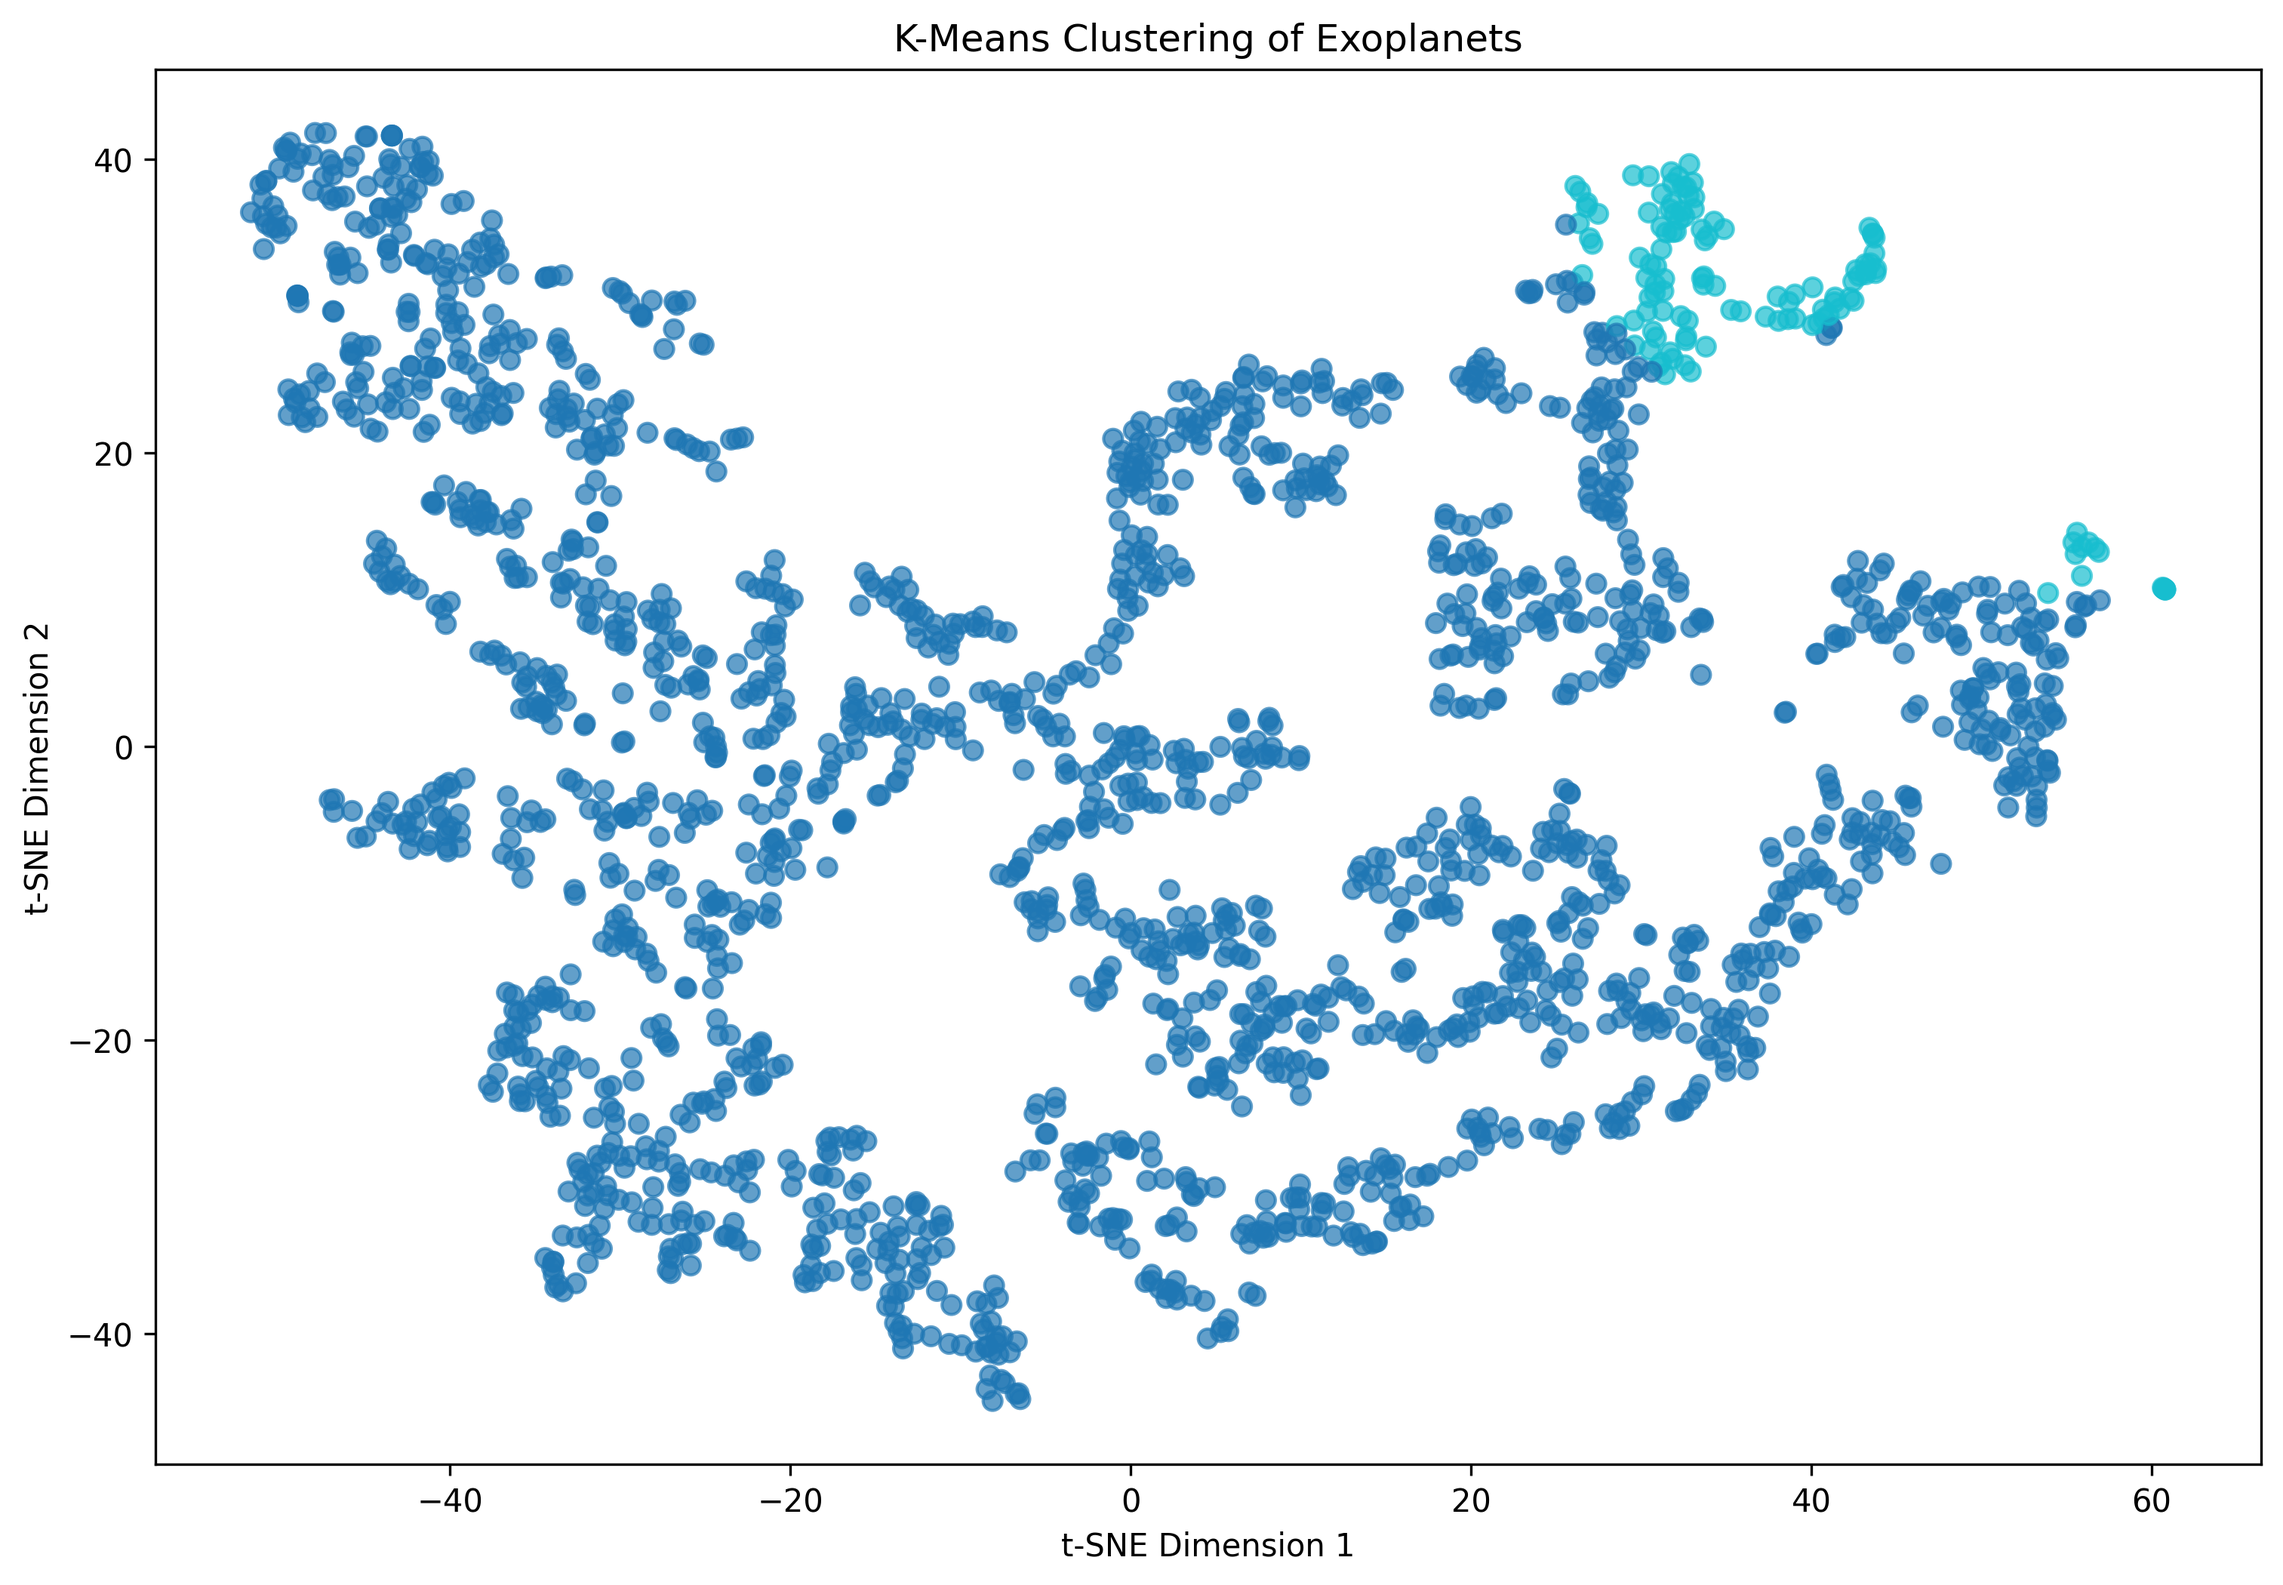
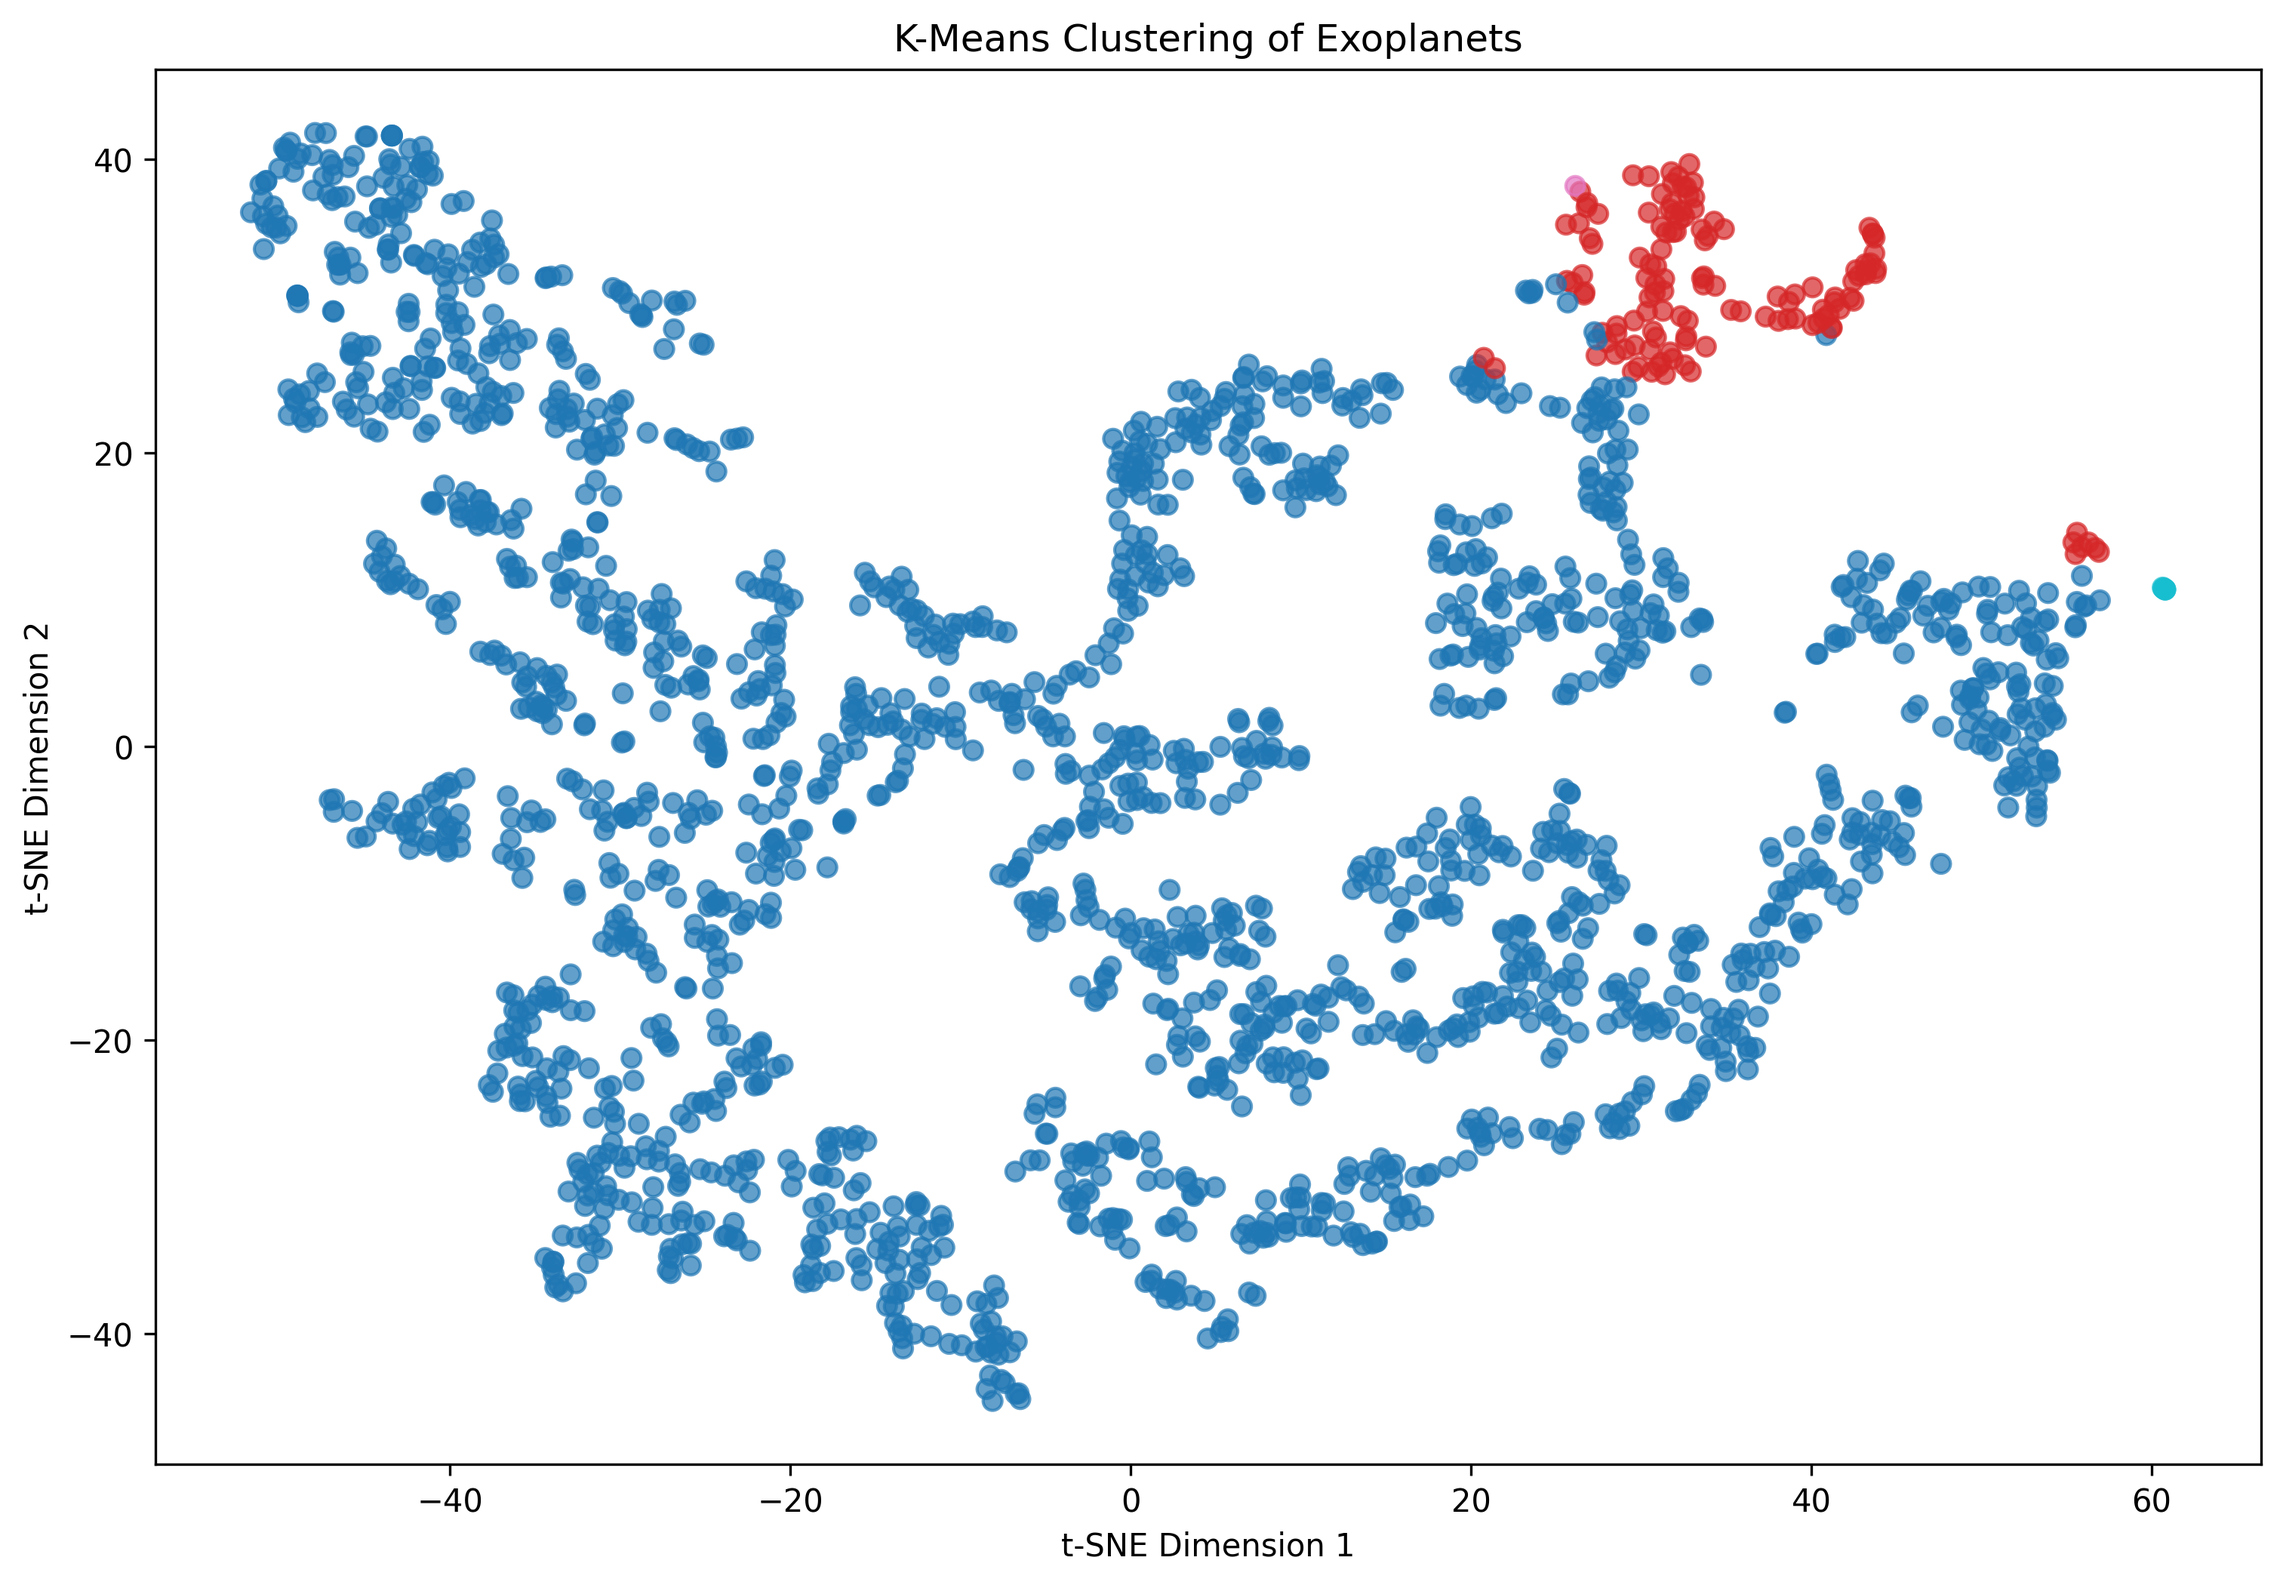
updated a few more things for the assignment

Changed region(s): [[0.6836, 0.0929, 0.839, 0.2476], [0.9012, 0.3095, 0.9322, 0.3714], [0.6215, 0.2167, 0.6526, 0.2476]]

diff --git a/research_report/exoplanet_report.html b/research_report/exoplanet_report.html
@@ -155,7 +155,7 @@ html {
 
 <p>
 Generated automatically using Python on:
-2026/05/22 21:25:04
+2026/05/25 13:38:12
 </p>
 
 <div class="section">
@@ -652,8 +652,6 @@ duplicates entirely, records were consolidated to preserve the most
 complete and scientifically reliable measurements available for each planet.
 </p>
 
-</div>
-
 <div class="metric">
 <b>Exact Duplicate Rows:</b> 13
 </div>
@@ -785,6 +783,8 @@ complete and scientifically reliable measurements available for each planet.
   <tbody>
   </tbody>
 </table>
+
+</div>
 
 <!-- SCIENTIFIC VAIDATION --> 
 <div class="section" id="validation">
@@ -1055,6 +1055,9 @@ or observational regimes.
 
 <!-- CLUSTERING --> 
 <div class="section" id="clustering">
+
+<h2>Clustering Analysis</h2>
+
 <img src="figures/cluster_optimisation.png">
 
 <div class="caption">
@@ -1066,44 +1069,54 @@ Figure: Silhouette score optimisation across candidate K-Means cluster counts. T
     <tr style="text-align: right;">
       <th>Clusters</th>
       <th>Silhouette</th>
+      <th>Davies_Bouldin</th>
     </tr>
   </thead>
   <tbody>
     <tr>
       <td>2</td>
       <td>0.746677</td>
+      <td>1.131394</td>
     </tr>
     <tr>
       <td>3</td>
       <td>0.732732</td>
+      <td>0.729017</td>
     </tr>
     <tr>
       <td>4</td>
       <td>0.709579</td>
+      <td>0.534389</td>
     </tr>
     <tr>
       <td>5</td>
       <td>0.342564</td>
+      <td>0.667071</td>
     </tr>
     <tr>
       <td>6</td>
       <td>0.348854</td>
+      <td>0.675792</td>
     </tr>
     <tr>
       <td>7</td>
       <td>0.380467</td>
+      <td>0.723173</td>
     </tr>
     <tr>
       <td>8</td>
       <td>0.348212</td>
+      <td>0.766452</td>
     </tr>
     <tr>
       <td>9</td>
       <td>0.346163</td>
+      <td>0.728819</td>
     </tr>
     <tr>
       <td>10</td>
       <td>0.325790</td>
+      <td>0.772193</td>
     </tr>
   </tbody>
 </table>
@@ -1130,6 +1143,7 @@ in planetary mass, orbital structure, and stellar environment.
 <h2>XGBoost Predictive Modelling</h2>
 
 <div class="metric"><b>Mean Absolute Error:</b> 188.24</div>
+<div class="metric"><b>Root Mean Squared Error:</b> 281.18</div>
 <div class="metric"><b>R² Score:</b> 0.7551</div>
 
 <table border="1" class="dataframe styled-table">
@@ -1161,11 +1175,22 @@ in planetary mass, orbital structure, and stellar environment.
 Figure: Relative feature importance scores derived from the XGBoost predictive model. Stellar temperature and orbital characteristics contribute most strongly to planetary equilibrium temperature prediction.
 </div>
 
+<img src="figures/prediction_performance.png">
+
+<div class="caption">
+Figure: Comparison of observed and predicted planetary equilibrium temperatures. Points closer to the diagonal line indicate more accurate predictions. Deviations from the line represent prediction error.
+</div>
+
 <p>
-The XGBoost model achieved strong predictive performance when estimating 
+The XGBoost model achieved strong predictive performance when estimating
 planetary equilibrium temperature from stellar and orbital variables.
-Feature importance analysis indicates that stellar temperature and 
-orbital distance contribute most strongly to predictive accuracy.
+Model accuracy was evaluated using Mean Absolute Error (MAE), Root Mean
+Squared Error (RMSE), and the coefficient of determination (R²). The
+RMSE metric provides additional insight into the magnitude of larger
+prediction errors because it penalises large deviations more heavily
+than MAE. Feature importance analysis indicates that stellar
+temperature and orbital distance contribute most strongly to predictive
+accuracy.
 </p>
 
 </div>

diff --git a/main.py b/main.py
@@ -17,7 +17,7 @@ from sklearn.decomposition import PCA
 from sklearn.manifold import TSNE
 from sklearn.cluster import KMeans, DBSCAN
 from sklearn.model_selection import train_test_split, GridSearchCV
-from sklearn.metrics import mean_absolute_error, r2_score, mean_squared_error, silhouette_score
+from sklearn.metrics import mean_absolute_error, r2_score, mean_squared_error, silhouette_score, davies_bouldin_score
 from sklearn.ensemble import IsolationForest
 
 from xgboost import XGBRegressor
@@ -657,6 +657,8 @@ plt.savefig(
 plt.show()
 plt.close()
 
+print(pca.explained_variance_ratio_.sum())
+
 # t-SNE Projection --------------------------------------------------------
 tsne = TSNE(
     n_components=2, 
@@ -692,7 +694,9 @@ plt.close()
 candidate_clusters = range(2, 11)
 best_k = None
 best_silhouette = -1
+best_davies = 1
 best_model = None
+best_composite = -np.inf
 
 cluster_search_results = []
 
@@ -705,25 +709,66 @@ for k in candidate_clusters:
 
     labels = model.fit_predict(scaled_data)
 
-    score = silhouette_score(scaled_data, labels)
+    silhouette = silhouette_score(scaled_data, labels)
+    davies = davies_bouldin_score(scaled_data, labels)
 
     cluster_search_results.append({
         "Clusters": k, 
-        "Silhouette": score
+        "Silhouette": silhouette, 
+        "Davies_Bouldin": davies
     })
-    print(f"k={k} | silhouette={score:.4f}")
+    print(f"k={k} | Silhouette={silhouette:.4f} | Davies Bouldin={davies:.4f}")
 
-    if score > best_silhouette:
-        best_silhouette = score
-        best_k = k
-        best_model = model
+cluster_results_df = pd.DataFrame(cluster_search_results)
+epsilon = 1e-9
+cluster_results_df["Silhouette_Norm"] = ((cluster_results_df["Silhouette"] - cluster_results_df["Silhouette"].min()) / (cluster_results_df["Silhouette"].max() - cluster_results_df["Silhouette"].min() + epsilon))
+
+cluster_results_df["DB_Norm"] = (
+    (
+        cluster_results_df["Davies_Bouldin"].max() - cluster_results_df["Davies_Bouldin"]
+    ) 
+    / 
+    (
+        cluster_results_df["Davies_Bouldin"].max() - cluster_results_df["Davies_Bouldin"].min() + epsilon
+    )
+)
+
+cluster_results_df["Composite"] = (0.6 * cluster_results_df["Silhouette_Norm"] + 0.4 * cluster_results_df["DB_Norm"])
+
+best_row = cluster_results_df.loc[cluster_results_df["Composite"].idxmax()]
+best_k = int(best_row["Clusters"])
 
 print("\n===== Optimal Clustering =====")
 print(f"Best K: {best_k}")
-print(f"Silhouette Score: {best_silhouette:.4f}")
+print(f"Silhouette Score: {best_row['Silhouette']:.4f}")
+print(f"Davies Bouldin: {best_row['Davies_Bouldin']:.4f}")
+print(f"Composite: {best_row['Composite']:.4f}")
 
-kmeans = best_model
-cluster_labels = kmeans.labels_
+fig, ax1 = plt.subplots(figsize=(10,6))
+ax1.plot(
+    cluster_results_df["Clusters"],
+    cluster_results_df["Silhouette"],
+    marker="o",
+    label="Silhouette"
+)
+
+ax1.set_ylabel("Silhouette Score")
+ax2 = ax1.twinx()
+ax2.plot(
+    cluster_results_df["Clusters"],
+    cluster_results_df["Davies_Bouldin"],
+    marker="s"
+)
+ax2.set_ylabel("Davies-Bouldin Index")
+plt.title("Cluster Optimisation Metrics")
+plt.savefig(
+    os.path.join(
+        figures_dir, 
+        "cluster_optimisation.png"
+    ), 
+    dpi=300,
+    bbox_inches="tight"
+)
 
 cluster_results_df = pd.DataFrame(cluster_search_results)
 plt.figure(figsize=(10,6))
@@ -841,6 +886,32 @@ plt.savefig(
 )
 
 plt.show()
+plt.close()
+
+rmse = np.sqrt(
+    mean_squared_error(y_test, predictions)
+)
+
+print(rmse)
+plt.figure(figsize=(8, 8))
+plt.scatter(
+    y_test, 
+    predictions, 
+    alpha=0.5
+)
+plt.plot(
+    [y_test.min(), y_test.max()],
+    [y_test.min(), y_test.max()],
+    linestyle="--"
+)
+plt.xlabel("Actual Temperature (K)")
+plt.ylabel("Predicted Temperature (K)")
+plt.title("Actual vs Predicted Planet Temperature")
+plt.savefig(
+    os.path.join(figures_dir, "prediction_performance.png"),
+    dpi=300, 
+    bbox_inches="tight"
+)
 plt.close()
 
 # SHAP Explainability ---------------------------------------------------------
@@ -1116,8 +1187,6 @@ duplicates entirely, records were consolidated to preserve the most
 complete and scientifically reliable measurements available for each planet.
 </p>
 
-</div>
-
 <div class="metric">
 <b>Exact Duplicate Rows:</b> {exact_duplicates}
 </div>
@@ -1126,6 +1195,8 @@ complete and scientifically reliable measurements available for each planet.
 <h3>Example Archival Evolution</h3>
 
 {planet_history.head(20).to_html(classes='styled-table')}
+
+</div>
 
 <!-- SCIENTIFIC VAIDATION --> 
 <div class="section" id="validation">
@@ -1289,6 +1360,9 @@ or observational regimes.
 
 <!-- CLUSTERING --> 
 <div class="section" id="clustering">
+
+<h2>Clustering Analysis</h2>
+
 <img src="figures/cluster_optimisation.png">
 
 <div class="caption">
@@ -1319,6 +1393,7 @@ in planetary mass, orbital structure, and stellar environment.
 <h2>XGBoost Predictive Modelling</h2>
 
 <div class="metric"><b>Mean Absolute Error:</b> {mae:.2f}</div>
+<div class="metric"><b>Root Mean Squared Error:</b> {rmse:.2f}</div>
 <div class="metric"><b>R² Score:</b> {r2:.4f}</div>
 
 {importance_df.to_html(index=False, classes='styled-table')}
@@ -1329,11 +1404,22 @@ in planetary mass, orbital structure, and stellar environment.
 Figure: Relative feature importance scores derived from the XGBoost predictive model. Stellar temperature and orbital characteristics contribute most strongly to planetary equilibrium temperature prediction.
 </div>
 
+<img src="figures/prediction_performance.png">
+
+<div class="caption">
+Figure: Comparison of observed and predicted planetary equilibrium temperatures. Points closer to the diagonal line indicate more accurate predictions. Deviations from the line represent prediction error.
+</div>
+
 <p>
-The XGBoost model achieved strong predictive performance when estimating 
+The XGBoost model achieved strong predictive performance when estimating
 planetary equilibrium temperature from stellar and orbital variables.
-Feature importance analysis indicates that stellar temperature and 
-orbital distance contribute most strongly to predictive accuracy.
+Model accuracy was evaluated using Mean Absolute Error (MAE), Root Mean
+Squared Error (RMSE), and the coefficient of determination (R²). The
+RMSE metric provides additional insight into the magnitude of larger
+prediction errors because it penalises large deviations more heavily
+than MAE. Feature importance analysis indicates that stellar
+temperature and orbital distance contribute most strongly to predictive
+accuracy.
 </p>
 
 </div>
